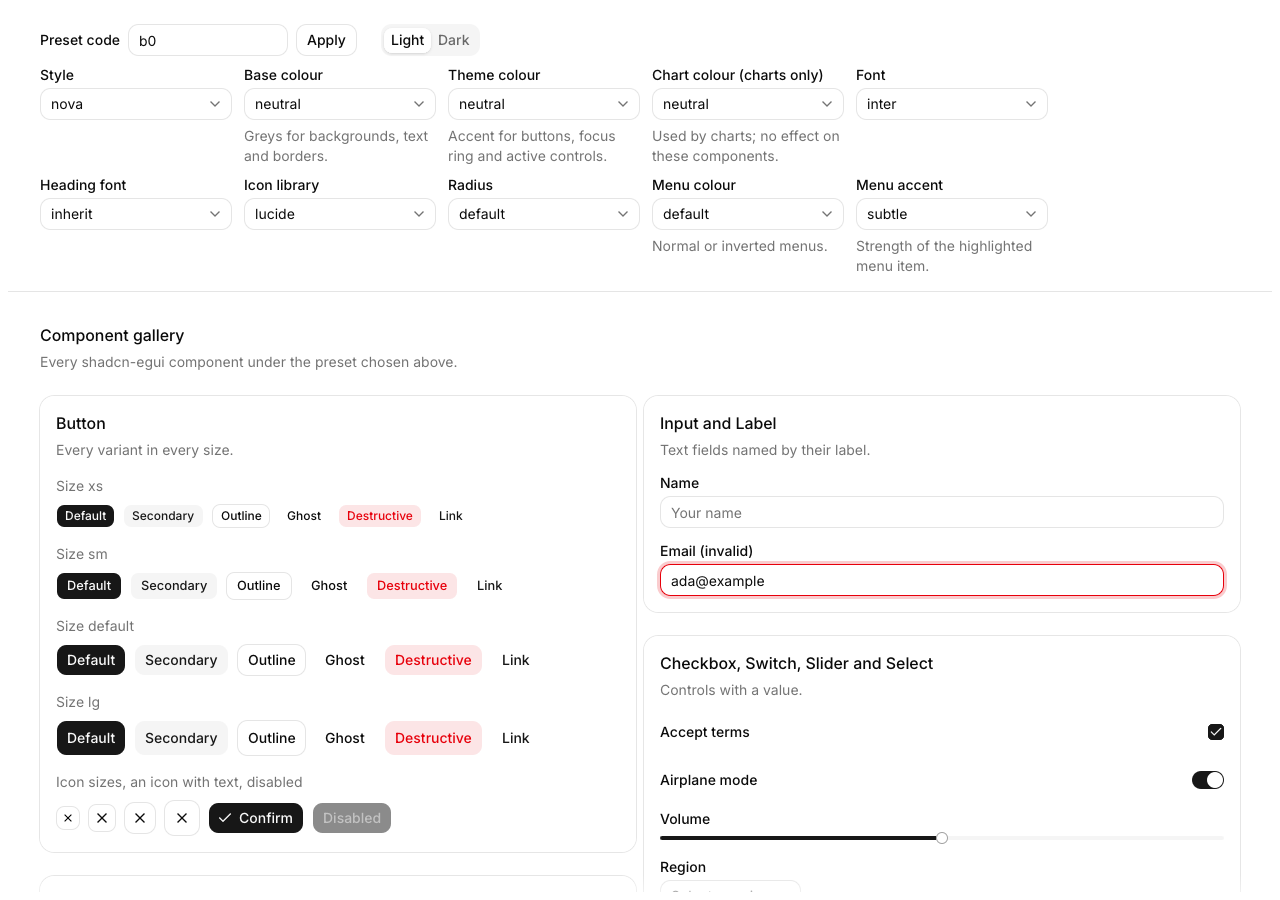
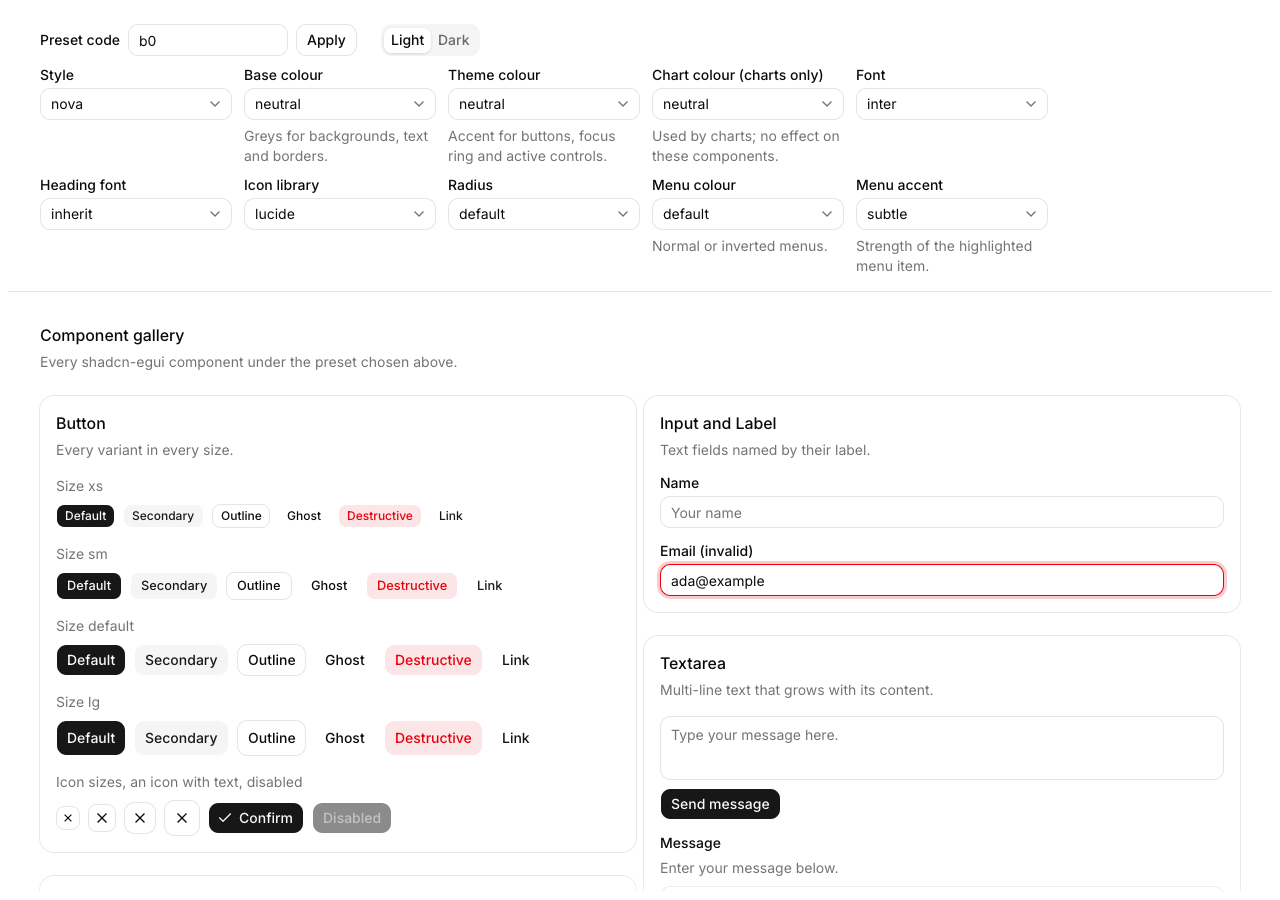
Gallery: show the textarea demos
The five shadcn-svelte textarea demos; the crate label and description
stand in for the Field wrapper, which is not ported yet.

diff --git a/crates/shadcn-egui/src/reference.rs b/crates/shadcn-egui/src/reference.rs
@@ -18,6 +18,7 @@ use crate::components::separator::{separator, separator_vertical};
 use crate::components::slider::Slider;
 use crate::components::switch::toggle;
 use crate::components::tabs::Tabs;
+use crate::components::textarea::Textarea;
 use crate::components::tooltip::tooltip;
 use crate::preset::{
     BaseColor, FontHeading, FontName, IconLibrary, MenuAccent, MenuColor, Preset, RadiusChoice,
@@ -260,6 +261,9 @@ pub struct GalleryState {
     tab: usize,
     name: String,
     email: String,
+    message: String,
+    message_field: String,
+    message_invalid: String,
     checked: bool,
     switch_on: bool,
     volume: f32,
@@ -279,6 +283,9 @@ impl GalleryState {
             tab: 0,
             name: String::new(),
             email: "ada@example".into(),
+            message: String::new(),
+            message_field: String::new(),
+            message_invalid: String::new(),
             checked: true,
             switch_on: true,
             volume: 50.0,
@@ -636,6 +643,7 @@ fn gallery_components(ui: &mut egui::Ui, state: &mut GalleryState) {
             });
             layout::vstack(right, 24.0, |ui| {
                 inputs_group(ui, state);
+                textarea_group(ui, state);
                 controls_group(ui, state);
                 badges_group(ui);
                 tabs_group(ui, state);
@@ -739,6 +747,58 @@ fn inputs_group(ui: &mut egui::Ui, state: &mut GalleryState) {
                         .invalid(true)
                         .max_width(f32::INFINITY),
                 )
+            });
+        },
+    );
+}
+
+/// shadcn-svelte's textarea demos: plain, with a button, in a field
+/// (label and description), disabled and invalid.
+fn textarea_group(ui: &mut egui::Ui, state: &mut GalleryState) {
+    const HINT: &str = "Type your message here.";
+    group(
+        ui,
+        "Textarea",
+        "Multi-line text that grows with its content.",
+        |ui| {
+            layout::vstack(ui, 8.0, |ui| {
+                ui.add(
+                    Textarea::new(&mut state.message)
+                        .hint_text(HINT)
+                        .desired_width(f32::INFINITY),
+                );
+                let _ = ui.add(Button::new("Send message"));
+            });
+            layout::vstack(ui, 8.0, |ui| {
+                let name = label(ui, "Message");
+                description(ui, "Enter your message below.");
+                ui.add(
+                    Textarea::new(&mut state.message_field)
+                        .hint_text(HINT)
+                        .desired_width(f32::INFINITY),
+                )
+                .labelled_by(name.id);
+            });
+            layout::vstack(ui, 8.0, |ui| {
+                let name = label(ui, "Message (disabled)");
+                ui.add_enabled(
+                    false,
+                    Textarea::new(&mut String::new())
+                        .hint_text(HINT)
+                        .desired_width(f32::INFINITY),
+                )
+                .labelled_by(name.id);
+            });
+            layout::vstack(ui, 8.0, |ui| {
+                let name = label(ui, "Message (invalid)");
+                ui.add(
+                    Textarea::new(&mut state.message_invalid)
+                        .hint_text(HINT)
+                        .invalid(true)
+                        .desired_width(f32::INFINITY),
+                )
+                .labelled_by(name.id);
+                description(ui, "Please enter a valid message.");
             });
         },
     );
